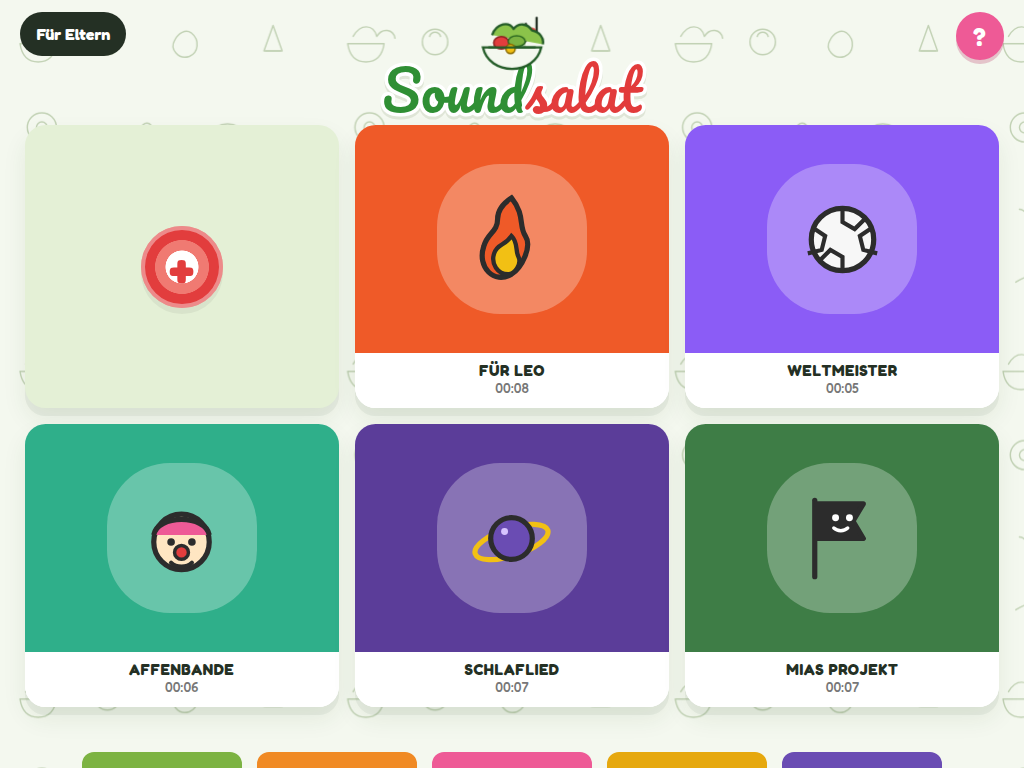
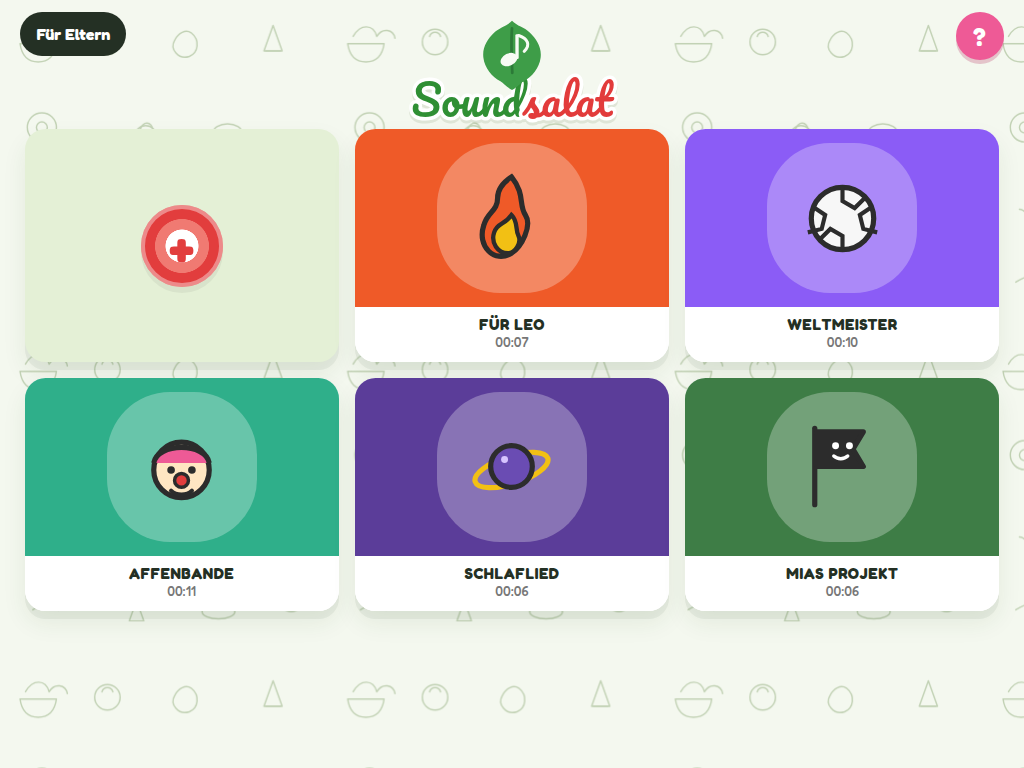
Remove the colored bars from the home screen.
Those strips sat on the bottom edge of short iPad viewports and looked like the editor category tabs.

diff --git a/src/styles.css b/src/styles.css
@@ -103,7 +103,7 @@ button:focus-visible, input:focus-visible { outline: 3px solid var(--lettuce-dee
   flex: 1; min-height: 0; overflow: auto; overscroll-behavior: contain;
   display: grid; grid-template-columns: repeat(3, minmax(0, 1fr));
   align-content: start; gap: clamp(12px, 1.6vw, 24px);
-  padding: clamp(8px, 1.4vmin, 18px) clamp(16px, 2.4vw, 40px);
+  padding: clamp(8px, 1.4vmin, 18px) clamp(16px, 2.4vw, 40px) calc(16px + var(--safe-bottom));
 }
 @media (min-aspect-ratio: 3/2) {
   .home-grid { grid-template-columns: repeat(4, minmax(0, 1fr)); }
@@ -139,12 +139,6 @@ button:focus-visible, input:focus-visible { outline: 3px solid var(--lettuce-dee
   font-size: clamp(14px, 1.5vw, 18px); white-space: nowrap; overflow: hidden; text-overflow: ellipsis;
 }
 .card-dur { color: #777; font-size: clamp(13px, 1.3vw, 16px); }
-.home-sprouts {
-  flex: 0 0 auto;
-  display: flex; height: 22px; gap: clamp(8px, 1.4vw, 18px);
-  margin: 6px 8% calc(8px + var(--safe-bottom));
-}
-.home-sprouts span { flex: 1; border-radius: 12px 12px 0 0; }
 @media (max-height: 860px) {
   .logo-sound, .logo-salat { font-size: clamp(36px, 4.2vw, 56px); }
   .salad-mark { width: 78px; margin-bottom: -10px; }

diff --git a/src/components/Home.tsx b/src/components/Home.tsx
@@ -71,13 +71,6 @@ export function Home() {
           />
         ))}
       </div>
-      <div className="home-sprouts" aria-hidden="true">
-        <span style={{ background: '#7cb342' }} />
-        <span style={{ background: '#f08a24' }} />
-        <span style={{ background: '#ee5a96' }} />
-        <span style={{ background: '#e6a80e' }} />
-        <span style={{ background: '#6a4cb3' }} />
-      </div>
       {dialog?.type === 'help' ? <HelpDialog onClose={() => setDialog(null)} /> : null}
       {dialog?.type === 'new' ? (
         <NewProjectDialog
